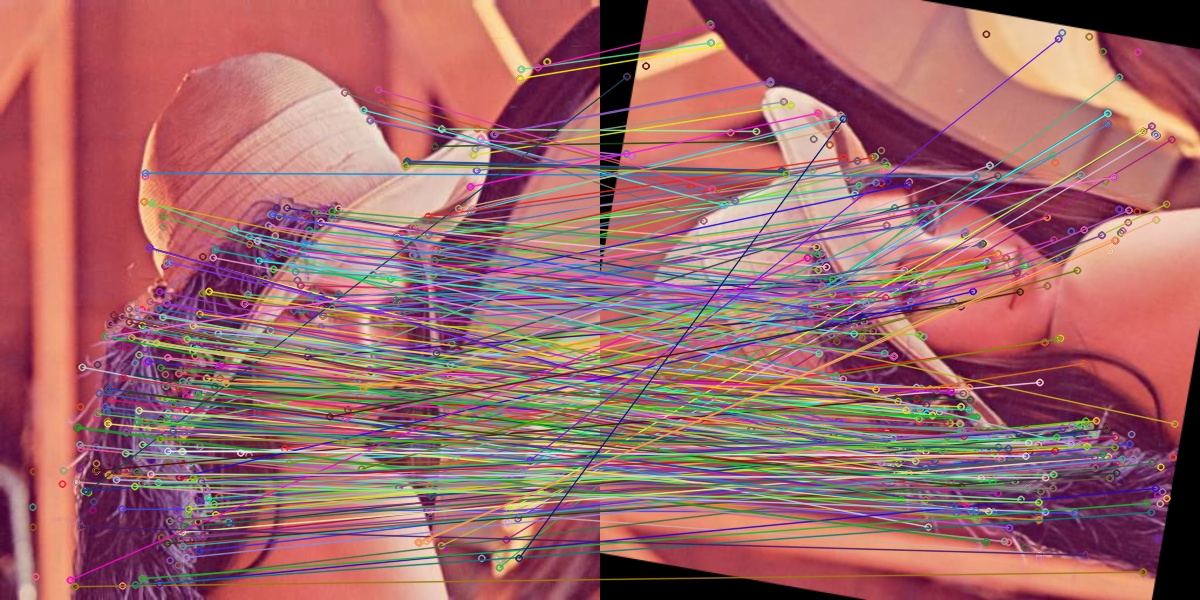
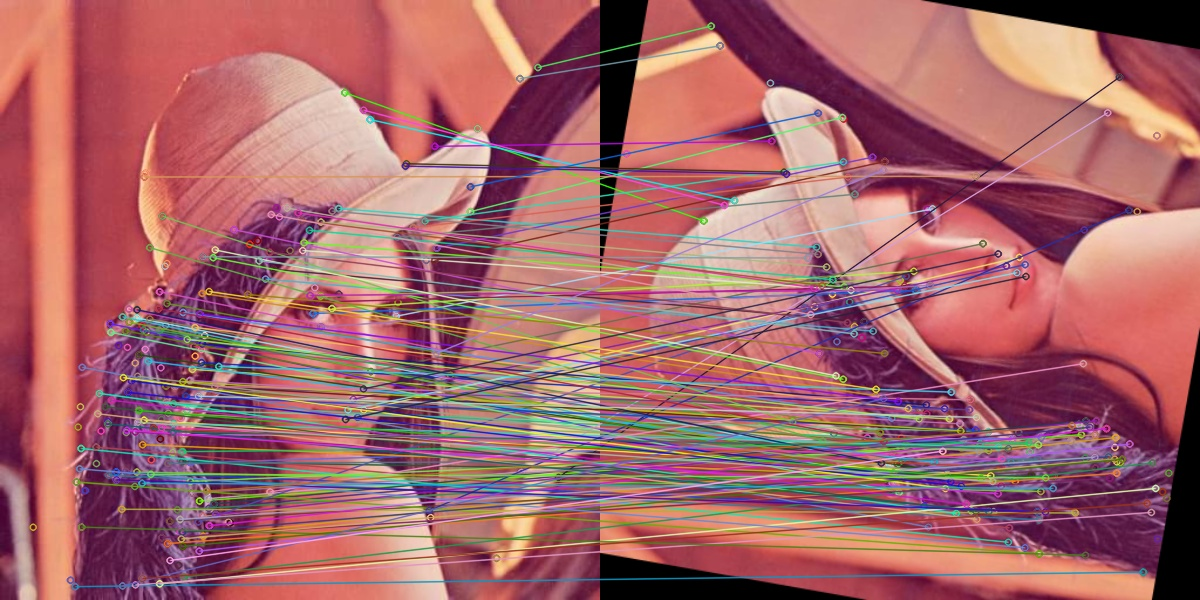
Seems like I finally found optimal detectors' parameters

diff --git a/detectors.cpp b/detectors.cpp
@@ -13,9 +13,9 @@ using namespace cv::xfeatures2d;
 int main() {
     Mat src = imread("/home/oracle/Project/Images/lena.jpg", CV_LOAD_IMAGE_UNCHANGED);
     Mat sec_src = imread("/home/oracle/Project/Images/exam.jpg", CV_LOAD_IMAGE_GRAYSCALE);
-    Mat third_src = imread("/home/oracle/Project/Images/image.jpg", CV_LOAD_IMAGE_UNCHANGED);
-    Ptr<Feature2D> f2d = SURF::create(1000);
-    Ptr<Feature2D> f2d_sift = SIFT::create(0, 3, 0.2 , 15, 1.2); //  trying cycles
+    Mat third_src = imread("/home/oracle/Project/Images/4th2.jpg", CV_LOAD_IMAGE_UNCHANGED);
+    Ptr<Feature2D> f2d = SURF::create(1000, 1, 2, 1, 0);
+    Ptr<Feature2D> f2d_sift = SIFT::create(0, 4, 0.3 , 10, 1.6); //  trying cycles
     // Setup SimpleBlobDetector parameters.
     SimpleBlobDetector::Params params;
 
@@ -81,8 +81,8 @@ int main() {
     resize(src_rotated, sized_src_two, Size(600, 600), 0, 0, INTER_LINEAR);
     resize(sec_src, sized_src_blobe_one, Size(600, 600), 0, 0, INTER_LINEAR);
     resize(sec_src_rotated, sized_src_blobe_two, Size(600, 600), 0, 0, INTER_LINEAR);
-    resize(third_src, sized_src_sift_one, Size(800, 600), 0, 0, INTER_LINEAR);
-    resize(third_src_rotated, sized_src_sift_two, Size(800, 600), 0, 0, INTER_LINEAR);
+    resize(third_src, sized_src_sift_one, Size(600, 800), 0, 0, INTER_LINEAR);
+    resize(third_src_rotated, sized_src_sift_two, Size(600, 800), 0, 0, INTER_LINEAR);
 
     // descriptors and detectors
 
